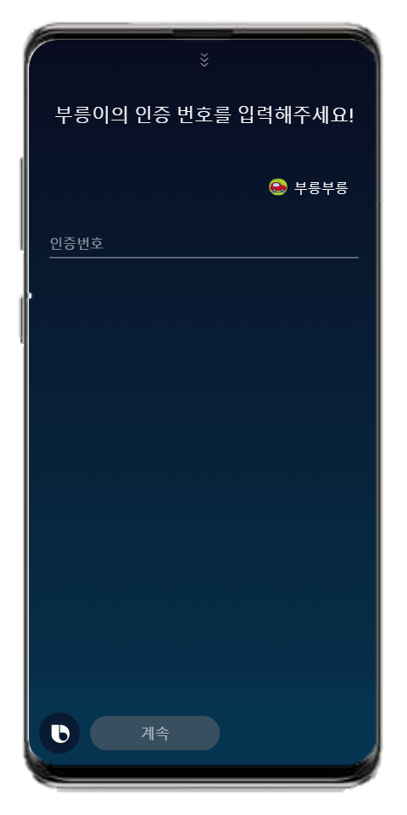
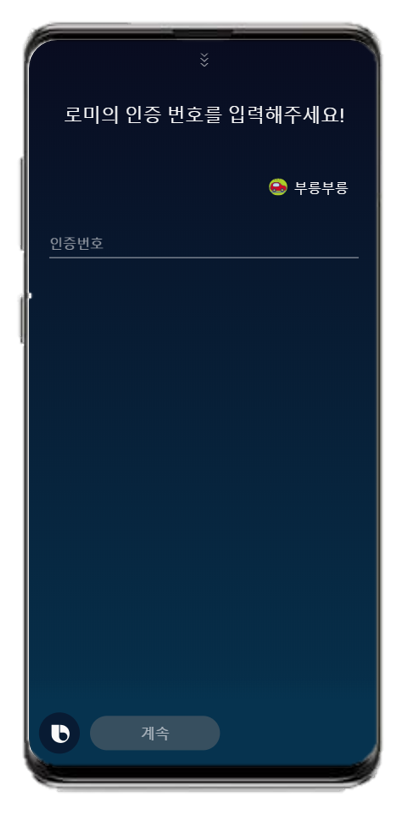
[Docs] Modify README detail

Changed region(s): [[0.1474, 0.1227, 0.8845, 0.1534]]

diff --git a/bixby/README.md b/bixby/README.md
@@ -1,14 +1,14 @@
 # BrrrBrrr Broombroom 💋
 
-![빅스비 뱃지](https://img.shields.io/badge/Bixby-8.0.1-informational) 
+![Bixby 뱃지](https://img.shields.io/badge/Bixby-8.0.1-informational) 
 
 
 ## Usage
 
 ```
-1. 스마트폰의 빅스비를 실행합니다.
+1. 스마트폰의 Bixby를 실행합니다.
 2. 부릉부릉 캡슐을 검색 후 추가합니다.
-3. 빅스비에게 다음과 같이 음성으로 말합니다. **'부릉부릉 시작!'**
+3. Bixby에게 다음과 같이 음성으로 말합니다. 부릉부릉 시작!
 ```
 
 ![bixby_market](./images/bixby_market.png) ![bixby_market_brr](./images/bixby_market_brr.png) ![bixby_market_brr_2](./images/bixby_market_brr_2.png)
@@ -16,26 +16,33 @@
 
 
 ## Service
+자율주행 안내 로봇 '로미'에게 안내를 받기 위해 Bixby를 통해 음성으로 로미와 대화할 수 있습니다.
+
+로미에게 '싸피 게시판이 어디야?', '1001호 강의실로 안내해줘'와 같은 발화를 건네면 로미는 이러한 장소에 대해 직접 안내해주거나 위치를 알려줍니다!
+
 
 ### 인증
+현재 눈 앞에 있는 로미에게 안내를 받기 위해서 로미를 인증해야 합니다. 로미의 LCD 패널에 표시되는 인증번호를 적어주세요.
 
-<img src="./images/bixby_frame/authentication.png" alt="authentication" style="zoom:20%;" /> 
+![authentication](./images/bixby_frame/authentication.png)
 
-### 안내
-
-<img src="./images/bixby_frame/select_guideType.png" alt="select_guideType" style="zoom:20%;" /> **안내 선택**<img src="./images/bixby_frame/place.png" alt="place" style="zoom:20%;" />
-
-- 안내 : 안내를 받을 수 있는 장소/행사로 안내 서비스를 이용할 수 있습니다.
-
+### 안내/투어 선택
+- 안내 : 안내를 받을 수 있는 장소/행사로 안내 서비스를 받을 수 있습니다.
 - 투어 : 지정된 투어 코스를 따라서 장소/행사에 대한 설명을 들으며 투어합니다.
+현재 투어 서비스는 사용이 불가능하며, 안내 서비스를 이용하실 수 있습니다.
+![select_guideType](./images/bixby_frame/select_guideType.png)
+
+### 장소/행사 선택
+- 장소 : 현재 로미가 있는 층에서 이동할 수 있는 장소의 리스트를 확인할 수 있습니다.
+- 행사 : 로미가 있는 건물 내에서 오늘 진행하고 있는 행사의 리스트를 확인할 수 있습니다.
+![place](./images/bixby_frame/place.png)
+
+![event_1](./images/bixby_frame/event_1.png) ![event_2](./images/bixby_frame/event_2.png)
 
 ### 이동 및 도착
-
-<img src="./images/bixby_frame/moving.png" alt="moving" style="zoom:20%;" />**도착 선택**<img src="./images/bixby_frame/arrival.png" alt="arrival" style="zoom:20%;" />
-
-- 로봇이 이동중일 때의 화면입니다.
-- 도착했을 시, 도착 버튼을 누르면 이동한 장소/행사에 대한 설명을 들을 수 있습니다.
-
+- 이동 : 로미와 함께 목적지를 향해 이동합니다.
+- 도착 : 이동 중에 목적지에 도착하게 되면 도착 버튼을 눌러 목적지에 대한 자세한 설명을 듣습니다.
+![moving](./images/bixby_frame/moving.png) ![arrival](./images/bixby_frame/arrival.png)
 
 ## Flow
 
